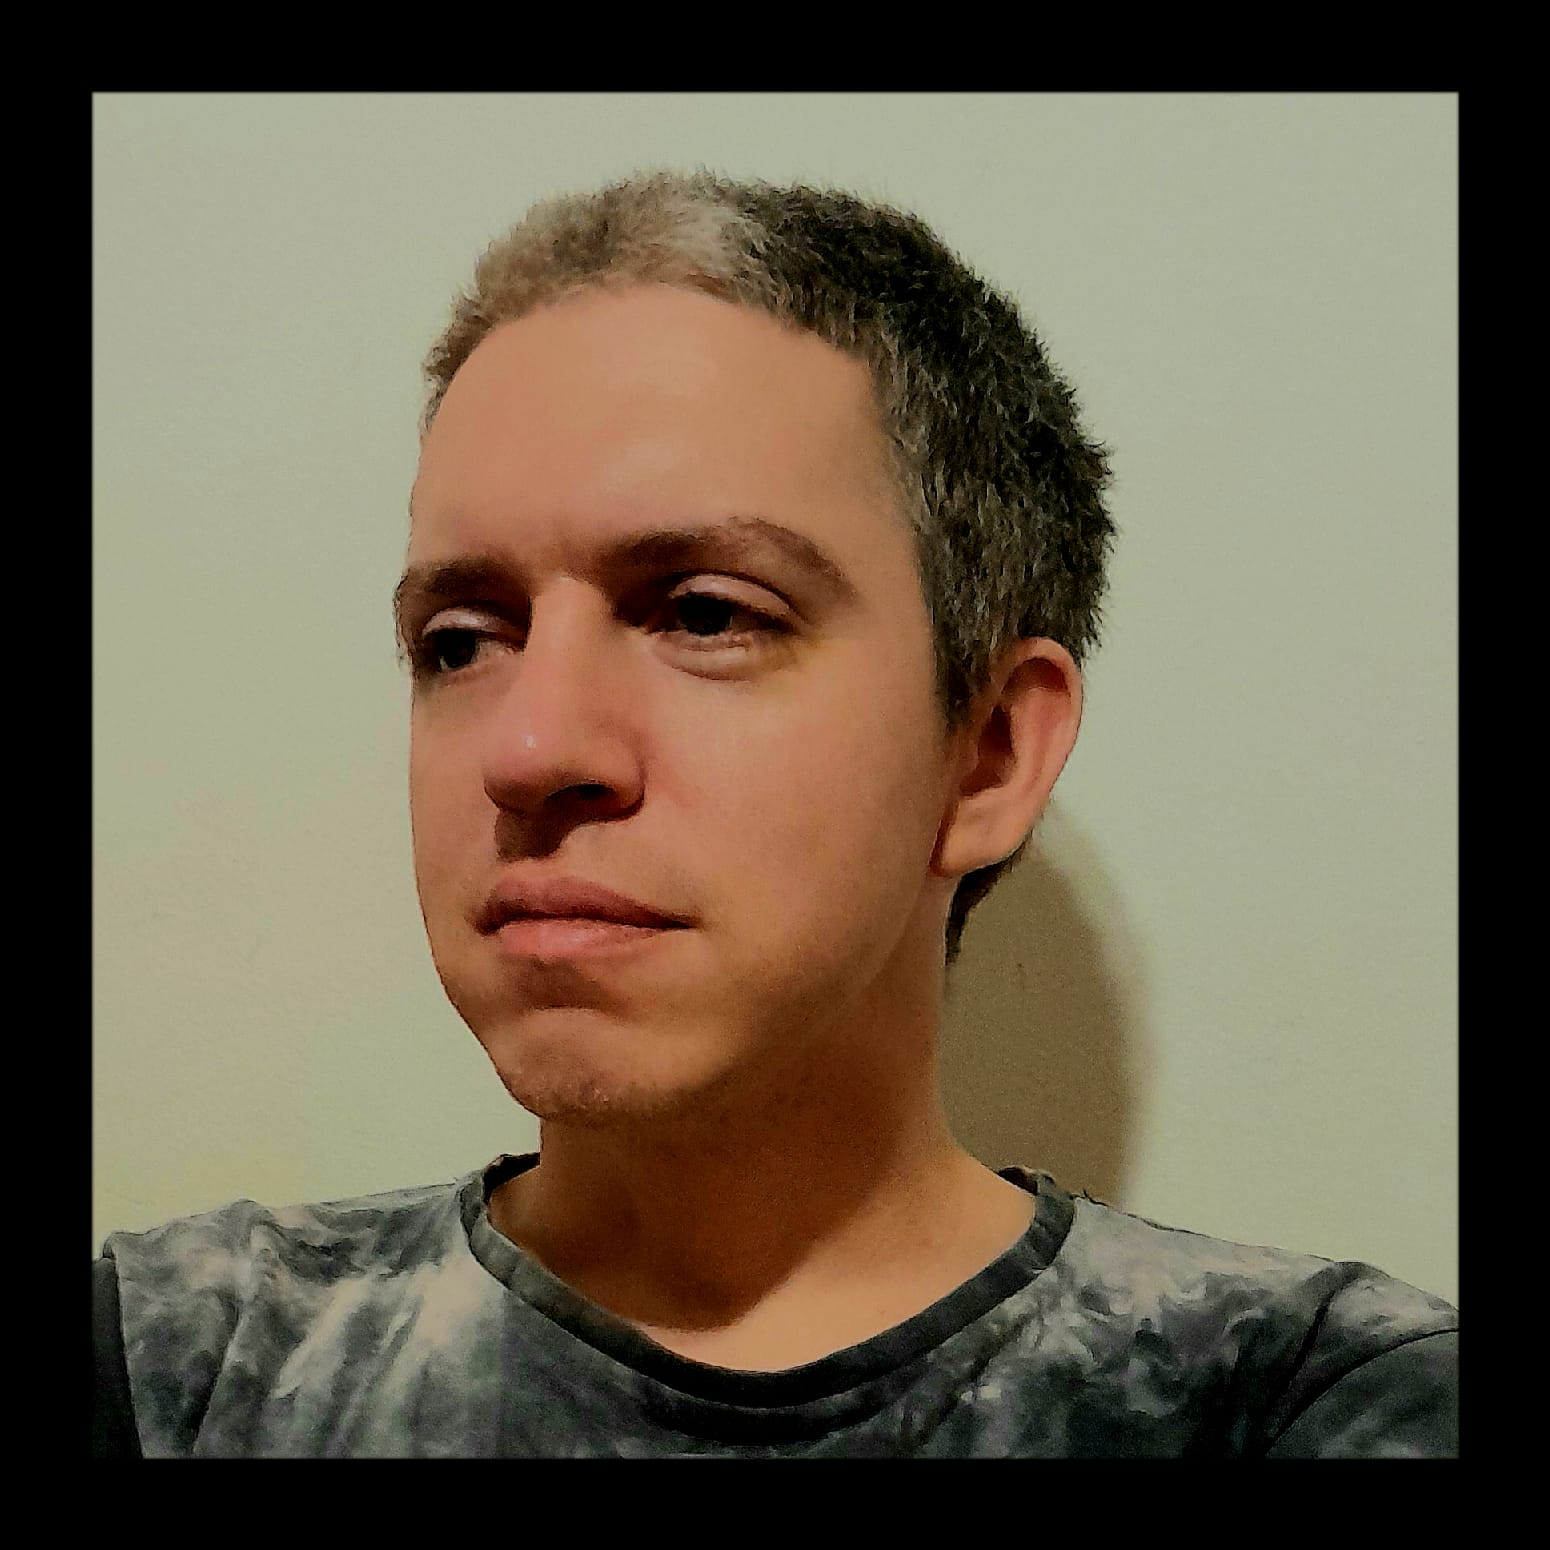
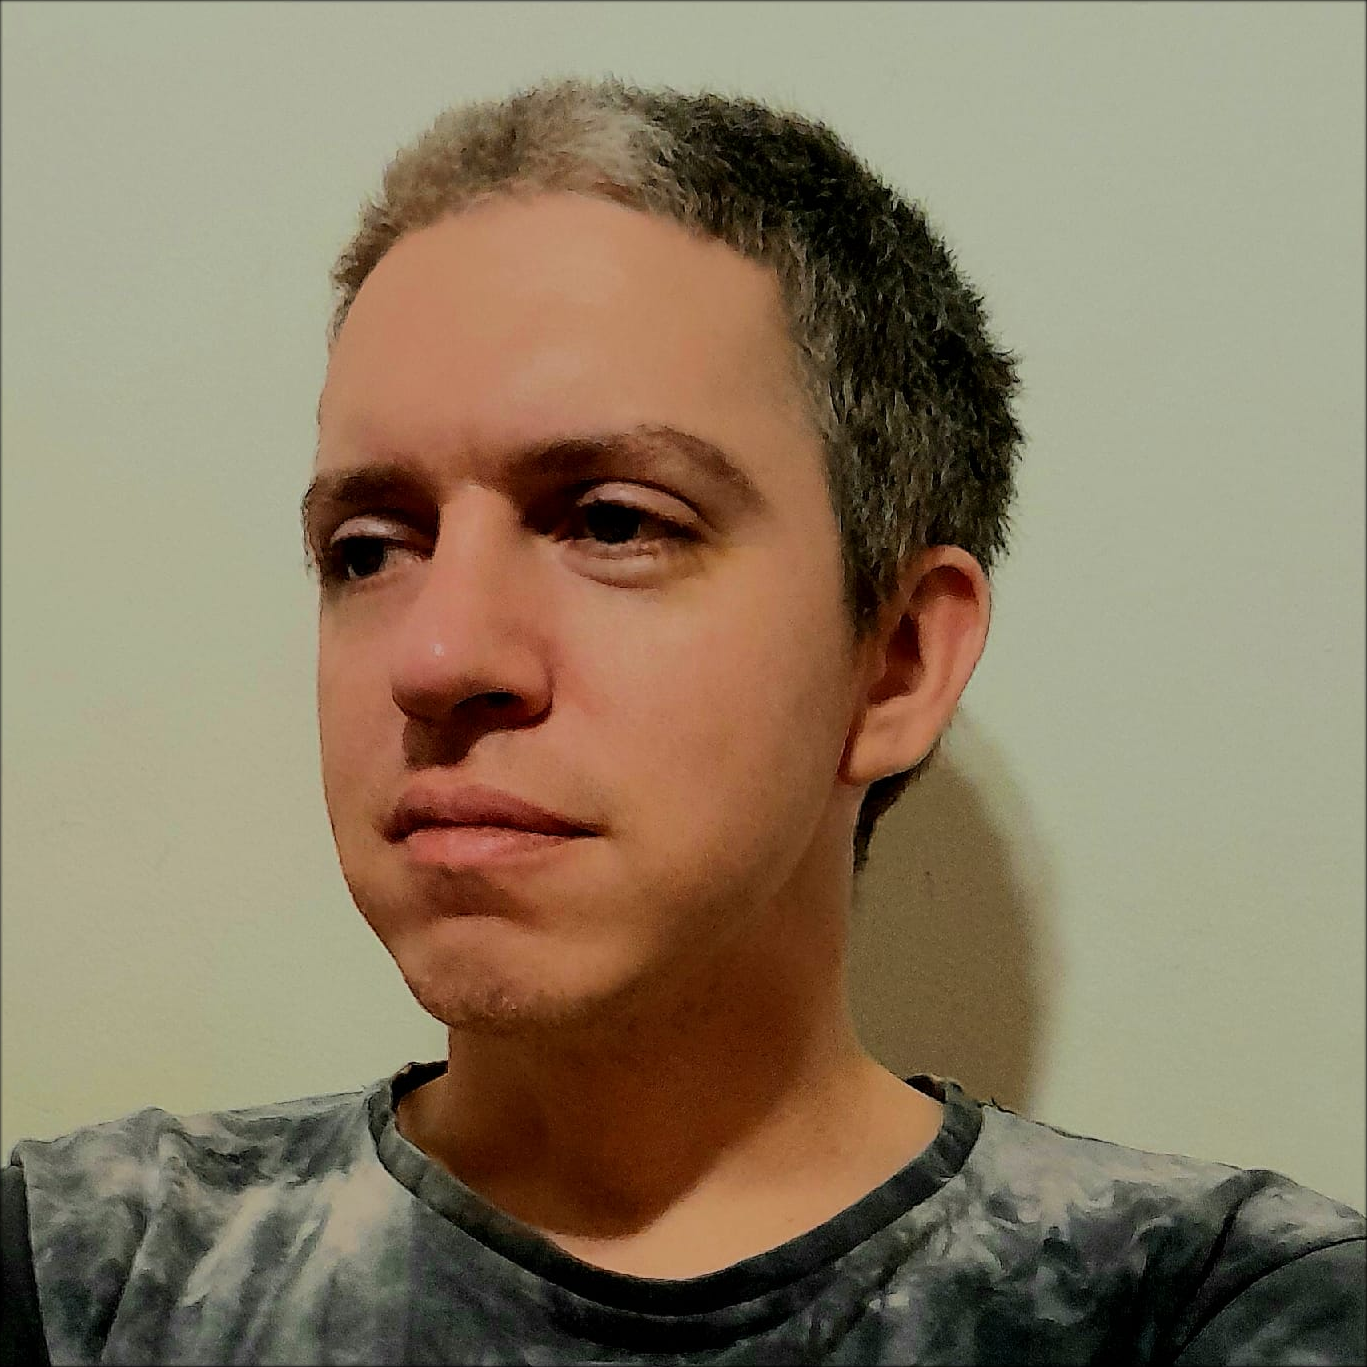
feat: Cambios a las imágenes en la sección de miembros

diff --git a/radio-la-35/app/miembros/page.module.css b/radio-la-35/app/miembros/page.module.css
@@ -48,6 +48,11 @@
   transform: translateY(-5px);
 }
 
+.avatar {
+  border: 3px solid #d44994;
+  border-radius: 50%;
+}
+
 /* ===== TEXTO ===== */
 .nombre {
   margin-top: 15px;
